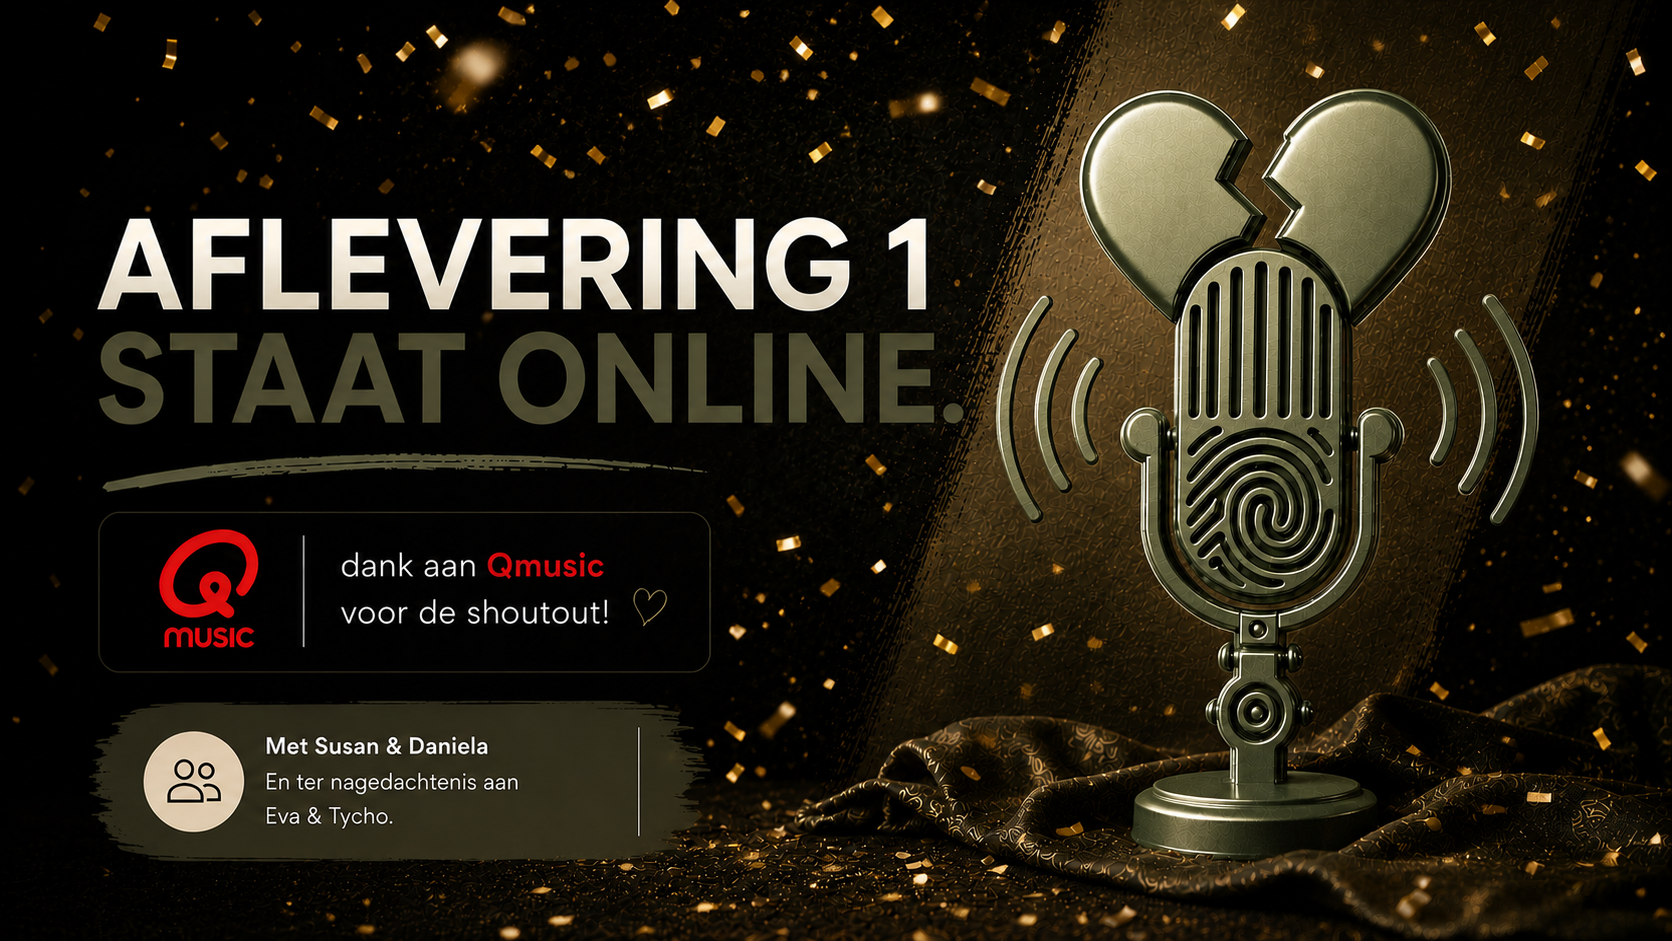
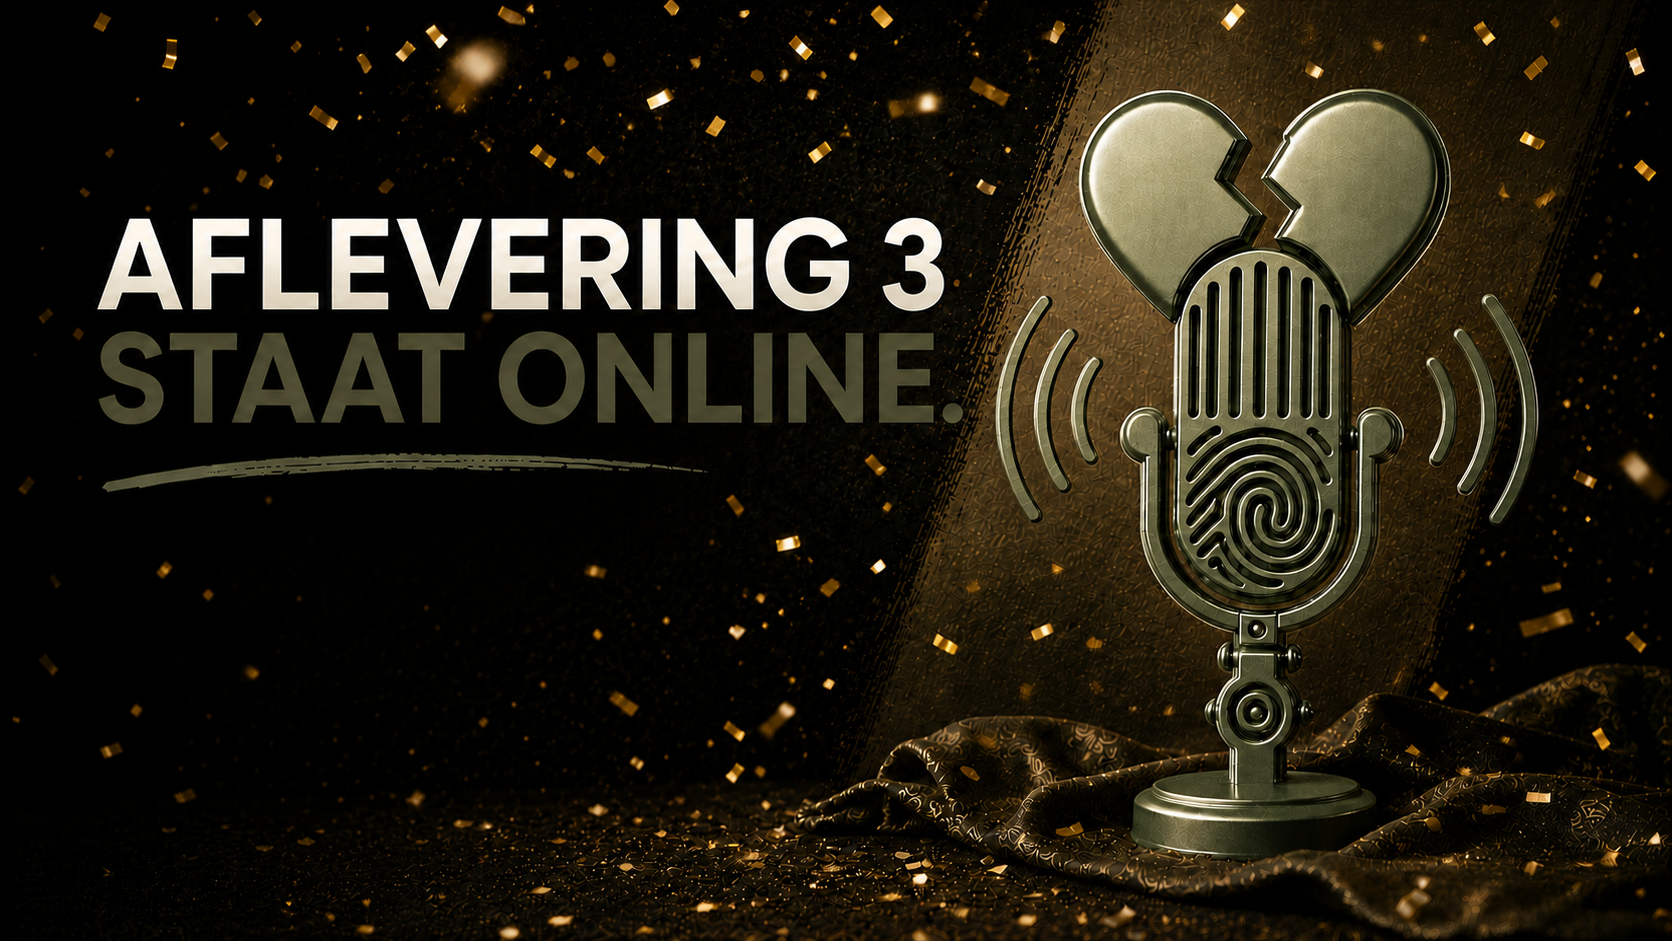
refactor: Remove community access handling from local admin login and update route redirection logic

diff --git a/src/lib/route-password.ts b/src/lib/route-password.ts
@@ -1,5 +1,4 @@
 export const routeAccessCookie = "stukverdriet-route-access";
-export const communityAccessCookie = "stukverdriet-community-access";
 
 const protectedPrefixes = ["/shop", "/community"];
 
@@ -21,11 +20,15 @@ export function isProtectedRoute(pathname: string) {
   return protectedPrefixes.some((prefix) => pathname === prefix || pathname.startsWith(`${prefix}/`));
 }
 
+export function isShopRoute(pathname: string) {
+  return pathname === "/shop" || pathname.startsWith("/shop/");
+}
+
 export function safeProtectedNext(value: string | null) {
-  if (!value) return "/community";
+  if (!value) return "/shop";
   const normalized = value.startsWith("/") ? value : `/${value}`;
-  if (isProtectedRoute(normalized)) return normalized;
-  return "/community";
+  if (isShopRoute(normalized)) return normalized;
+  return "/shop";
 }
 
 export function hasRoutePasswordConfigured() {
@@ -42,55 +45,6 @@ export async function hasRouteAccess(cookieValue?: string | null) {
   if (!cookieValue) return false;
   const token = await createRouteAccessToken();
   return Boolean(token && cookieValue === token);
-}
-
-function adminSessionSecret() {
-  const configuredSecret = process.env.ADMIN_SESSION_SECRET || process.env.STUK_VERDRIET_ROUTE_SECRET;
-  if (configuredSecret) return configuredSecret;
-  return process.env.NODE_ENV === "production" ? "" : "admin123:stukverdriet-admin-session";
-}
-
-function base64UrlBytes(value: string) {
-  const normalized = value.replace(/-/g, "+").replace(/_/g, "/");
-  const binary = atob(normalized.padEnd(Math.ceil(normalized.length / 4) * 4, "="));
-  return Uint8Array.from(binary, (character) => character.charCodeAt(0));
-}
-
-export async function hasCommunityAccess(cookieValue?: string | null) {
-  if (!cookieValue) return false;
-  const secret = adminSessionSecret();
-  if (!secret) return false;
-  const parts = cookieValue.split(".");
-  if (parts.length !== 4 || parts[0] !== "v1") return false;
-
-  try {
-    const username = new TextDecoder().decode(base64UrlBytes(parts[1])).trim().toLowerCase();
-    if (username !== "susan" && username !== "daniela") return false;
-  } catch {
-    return false;
-  }
-
-  const expiresAt = Number(parts[2]);
-  if (!Number.isFinite(expiresAt) || expiresAt <= Math.floor(Date.now() / 1000)) return false;
-
-  try {
-    const payload = parts.slice(0, 3).join(".");
-    const key = await crypto.subtle.importKey(
-      "raw",
-      new TextEncoder().encode(secret),
-      { name: "HMAC", hash: "SHA-256" },
-      false,
-      ["verify"]
-    );
-    return crypto.subtle.verify(
-      "HMAC",
-      key,
-      base64UrlBytes(parts[3]),
-      new TextEncoder().encode(payload)
-    );
-  } catch {
-    return false;
-  }
 }
 
 export async function verifyRoutePassword(password: string) {

diff --git a/src/app/api/local-admin-login/route.ts b/src/app/api/local-admin-login/route.ts
@@ -13,7 +13,6 @@ import {
   localAdminPassword,
   localAdminUser
 } from "@/lib/local-admin";
-import { communityAccessCookie } from "@/lib/route-password";
 
 type LoginAttempt = {
   count: number;
@@ -57,12 +56,9 @@ export async function POST(request: Request) {
   const requestUrl = new URL(request.url);
   const formData = await request.formData();
   const next = safeAuthNext(String(formData.get("next") ?? "/admin"));
-  const isCommunityEntrance = next === "/community" || next.startsWith("/community/");
   const loginErrorUrl = (error: string) =>
     next === "/admin"
       ? new URL(`/admin?error=${encodeURIComponent(error)}`, requestUrl.origin)
-      : isCommunityEntrance
-        ? new URL(`/toegang?next=${encodeURIComponent(next)}&error=${encodeURIComponent(error)}`, requestUrl.origin)
       : new URL(`/login?next=${encodeURIComponent(next)}&error=${encodeURIComponent(error)}`, requestUrl.origin);
 
   const username = String(formData.get("username") ?? "").trim().toLowerCase();
@@ -79,11 +75,6 @@ export async function POST(request: Request) {
   const isDevPasswordLogin = isLocalAdminEnabled() && !process.env.ADMIN_PASSWORD && password === localAdminPassword;
   const adminAllowed = isBuiltInAdmin || isDevPasswordLogin || adminEmailList().includes(username) || (await isEmailAdmin(username));
 
-  if (isCommunityEntrance && !isBuiltInAdmin) {
-    recordFailedAttempt(attemptKey);
-    return NextResponse.redirect(loginErrorUrl("local-admin"), 303);
-  }
-
   if (!isBuiltInAdmin && !isDevFallback && !isDevPasswordLogin && (!isValidAdminPassword(password) || !adminAllowed)) {
     recordFailedAttempt(attemptKey);
     return NextResponse.redirect(loginErrorUrl("local-admin"), 303);
@@ -92,7 +83,6 @@ export async function POST(request: Request) {
   loginAttempts.delete(attemptKey);
 
   const response = NextResponse.redirect(new URL(next, requestUrl.origin), 303);
-  let adminSessionValue = "";
   if (isDevFallback) {
     response.cookies.set(localAdminCookie, "1", {
       httpOnly: true,
@@ -102,20 +92,10 @@ export async function POST(request: Request) {
       secure: false
     });
   } else {
-    adminSessionValue = createAdminSessionValue(username);
-    response.cookies.set(adminSessionCookie, adminSessionValue, {
+    response.cookies.set(adminSessionCookie, createAdminSessionValue(username), {
       httpOnly: true,
       maxAge: adminSessionMaxAge,
       path: "/",
-      sameSite: "lax",
-      secure: process.env.NODE_ENV === "production"
-    });
-  }
-  if (isCommunityEntrance) {
-    response.cookies.set(communityAccessCookie, adminSessionValue, {
-      httpOnly: true,
-      maxAge: adminSessionMaxAge,
-      path: "/community",
       sameSite: "lax",
       secure: process.env.NODE_ENV === "production"
     });

diff --git a/src/app/toegang/page.tsx b/src/app/toegang/page.tsx
@@ -16,44 +16,7 @@ export const metadata = {
 
 export default async function AccessPage({ searchParams }: AccessPageProps) {
   const params = (await searchParams) ?? {};
-  const next = safeProtectedNext(params.next ?? "/community");
-  const isShop = next === "/shop" || next.startsWith("/shop/");
-  const communityError = params.error === "rate-limited"
-    ? "Er zijn te veel inlogpogingen. Wacht tien minuten en probeer het opnieuw."
-    : params.error === "missing-secret"
-      ? "De beveiligde login is in deze omgeving nog niet geconfigureerd."
-      : "Gebruikersnaam of wachtwoord klopt niet. Probeer het opnieuw.";
-
-  if (!isShop) {
-    return (
-      <section className="admin-access-page" aria-labelledby="community-access-title">
-        <div className="admin-access-panel">
-          <p className="eyebrow">Stuk Verdriet community</p>
-          <h1 id="community-access-title">Communityomgeving</h1>
-          <p>
-            Log direct in met een toegestaan beheeraccount. Persoonlijk aanmelden doe je daarna binnen SNAAR.
-          </p>
-
-          <form className="admin-magic-link-form" action="/api/local-admin-login" method="post">
-            <input type="hidden" name="next" value={next} readOnly />
-            <label>
-              Gebruikersnaam
-              <input name="username" autoComplete="username" required placeholder="susan of daniela" autoFocus />
-            </label>
-            <label>
-              Wachtwoord
-              <input name="password" type="password" autoComplete="current-password" required />
-            </label>
-            <button className="button" type="submit">Inloggen</button>
-          </form>
-
-          {params.error ? (
-            <p className="notice" role="alert">{communityError}</p>
-          ) : null}
-        </div>
-      </section>
-    );
-  }
+  const next = safeProtectedNext(params.next ?? "/shop");
 
   return (
     <div className="login-under-construction">
